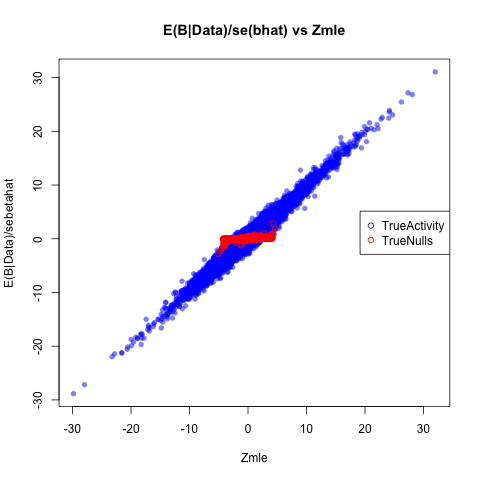
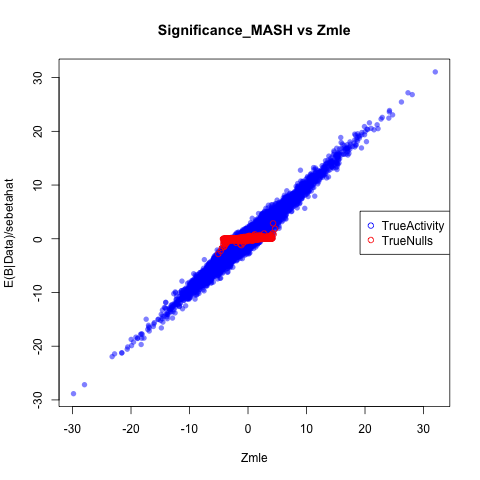
updated
Former-commit-id: 41347c7d1dfbb4c470f985ee4922c5c2e44cd173
Former-commit-id: e0957b2e75d70ba37c8448d6de1a697af7491def

Changed region(s): [[0.3125, 0.0312, 0.75, 0.0938]]

diff --git a/Paper/Results/Results.tex b/Paper/Results/Results.tex
@@ -74,28 +74,29 @@ HI_{TS}& 39.98& 40.77&39.51\\
 
 \subsubsection{Adaptive Shrinkage: The Multivariate Approach}
 
-To demonstrate the utility of shrinking effect size estimates jointly, we consider the estimated effect sizes against their observed input summary statistics using our joint (MASH) and comparing to a univariate shrinkage method (Ash). On simulated data, we can also then plot the estimated effect sizes against the true values,  again comparing among methods. Here, we show the results under the setting of tissue specificity, to analyze the behavior of eQTL of each class.\newline
+To demonstrate the utility of shrinking effect size estimates jointly, we consider the estimated effect sizes against their observed input summary statistics using our joint (MASH) and comparing to a univariate shrinkage method (Ash). On simulated data, we can also then plot the estimated effect sizes against the true values, again comparing among methods. Here, we show the results under the setting of tissue specificity, to analyze the behavior of eQTL of each class.\newline
 
 %\textbf{Figure: Insert Simulations from TSpecific Conditions here}
 \begin{figure}[htbp]
-%\includegraphics[width=5cm]{Figures/scatterplot_fittedtspec.png}&
-%\includegraphics[width=5cm]{Figures/scatterplot_fittedtspec_ash.png}\\
+\includegraphics[width=5cm]{Figures/scatterplot_fittedtspec.png}&
+\includegraphics[width=5cm]{Figures/scatterplot_fittedtspec_ash.png}\\
 %\hfill
 %%\includegraphics[width=5cm]{Figures/scatterplot_truthtspec.png}&
 %%\includegraphics[width=5cm]{Figures/scatterplot_TRUTHashtspec.png}
-\includegraphics[width=5cm]{Figures/scatterplotfittedbspec.png}&
-\includegraphics[width=5cm]{Figures/scatterplotfitted_bspec_ash.png}\\
-\hfill
+%\includegraphics[width=5cm]{Figures/scatterplotfittedbspec.png}&
+%\includegraphics[width=5cm]{Figures/scatterplotfitted_bspec_ash.png}\\
+%\hfill
 \includegraphics[width=5cm]{Figures/scatterplot_truthbspec.png}&
 \includegraphics[width=5cm]{Figures/scatterplot_TRUTHashbspec.png}
-\caption{\textbf{Understanding Power and Accuracy Gains} In the top left panel, we contrast the power advantage of a joint shrinkage approach with that of a univariate thresholding approach, in which all observed statistics of a given size are shrunk equivalently, independent of the information contained in other tissues. Using the information contained in other tissues allows us to augment (or shrink less harshly) small effects in one tissue in the presence of larger tissues, while univariate methods ignore alternative tissues. Thus the method is dually `adaptive' by considering the abundance of both effect sizes (here, an abundance of small effects) and shapes in the overall data-set. $\textbf{Bottom left} the correlation with the true (simulated) effect sizes values is greater using MASH then univariate methods, and truly null values are shrunk more harshly, while retaining the ability to capture tissue-specific eQTL.}
+\caption{\textbf{Understanding Power and Accuracy Gains} In the top left panel, we contrast the power advantage of a joint shrinkage approach with that of a univariate thresholding approach, in which all observed statistics of a given level of significance shrunk equivalently, independent of the information contained in other tissues. Using the information contained in other tissues allows us to augment (or shrink less harshly) small effects in one tissue in the presence of evidence of strong effects in other tissues, while univariate methods ignore alternative tissues. Thus the method is dually `adaptive' by considering the abundance of both effect sizes (here, an abundance of small effects) and shapes in the overall data-set. $\textbf{Bottom left}$ the correlation with the true (simulated) effect sizes values is greater using MASH then univariate methods, and truly null values are shrunk more harshly, while retaining the ability to capture tissue-specific eQTL.}
  \label{fig:simulationscatter}
 \end{figure}\newline
 
-In both MASH and univariate methods, $\hat{b}_{jr}$ values with large standard errors will be shrunk more harshly (Ash Paper, Stephens $\emph{et al}$). However, under the `EZ' model used here, the standard errors are uniformly one. Thus plotting estimated Z statistics (i.e., $E(Z_{jr}|Data$)) against the observed `raw' input values (i.e., $\hat{Z}_{jr})$ (Figure \ref{fig:simulationscatter}) allows us to understand the behavior of multivariate versus univariate methods once the standard error has been considered. 
-However under the simulation framework here, where the standard errors are roughly uniform across tissues, plotting estimated efect sizes (i.e., $E(b_{jr}|Data$)) against the observed `raw' input values (i.e., $\hat{b}_{jr})$ (Figure \ref{fig:simulationscatter}) allows us to understand the behavior of multivariate versus univariate methods once the standard error has been considered. 
-
-In this simulated data-set, where there is an abundance of small effects, both univariate and multivariate methods tend to shrink small observed values of $\hat{\beta}$ towards prior mean at $\bm{0}$ as their likelihoods will be maximized by component with small $\omega$. Critically, considering observed $\bm{\hat{\beta}}$ of the same size, MASH does not shrink all small values to the same extent, due to the power of joint analysis to consider the effects across tissues in inferring the final vector of effect sizes. Thus the method is dually `adaptive' by considering the abundance of both effect sizes and shapes in the overall data-set.  Here, acknowledging consistency, small effects in one tissue will be augmented in the presence of larger effects  other tissues, resulting in dramatic power increases (Figure \ref{fig:powervaccuracy}).
+In both MASH and univariate methods, $\hat{b}_{jr}$ of a given size will be shrunk more harshly depending on their errors (Ash Paper, Stephens $\emph{et al}$). 
+%However, under the `EZ' model used here, the standard errors are uniformly one, and thus effects are shrunk according to the ratio between their observed effect $\hat{b}_{jr}$  and their standard error $\hat{s}_{jr}$. 
+However, plotting the estimated significance (i.e., $\frac{E(B|Data)}{\hat{s}_{j}}$) against the observed Z score (i.e., $\hat{Z}_{jr})$ (Figure \ref{fig:simulationscatter}) allows us to understand the behavior of multivariate versus univariate methods once the standard error has been considered. 
+%However under the simulation framework here, where the standard errors are roughly uniform across tissues, plotting estimated efect sizes (i.e., $E(b_{jr}|Data$)) against the observed `raw' input values (i.e., $\hat{b}_{jr})$ (Figure \ref{fig:simulationscatter}) allows us to understand the behavior of multivariate versus univariate methods once the standard error has been considered. 
+In this simulated data-set, where there is an abundance of small effects, both univariate and multivariate methods tend to shrink small observed values of $\hat{\bm{b}}$ towards prior mean at $\bm{0}$ as their likelihoods will be maximized by component with small $\omega$. However, while univariate methods shrink all observed Z statistics uniformly, thus preserving the rank-order of significance among $\hat{\bm{b_{j}}}$, MASH does not. Critically, this is due to the power of joint analysis to consider the effects across tissues in inferring the final vector of effect sizes.Thus the method is dually `adaptive' by considering the abundance of both effect sizes and shapes in the overall data-set.  Here, acknowledging consistency, small effects in one tissue will be augmented in the presence of larger effects in other tissues, resulting in dramatic power increases (Figure \ref{fig:powervaccuracy}).
 
 Furthermore, when we plot the estimated effects $E(\beta_{jr}|Data)$ against true effect size $\beta_{jr}$ (Figure \ref{fig:simulationscatter}, $\textbf{bottom}$) and segregate these effects by class  (e.g., active and shared, active and tissue-specific, or null), we see that the correlation among the true and estimated effect $E(\beta|D)$ sizes is much tighter using our multivariate approach. Similarly, truly null effects are shrunk more tightly, due to the fact that in the presence of consistency, small effects across subgroups will lead us to have a high prior belief that an additional small observed effect in that eQTL is also likely to be close to 0. Importantly, tissue-specific QTLs are still captured using our joint approach, demonstrating that if tissue-specific patterns exist in the data, our prior belief will capture this phenomenon and accordingly our posterior estimates will reflect the underlying tissue-specific nature at a given tissue-specific SNP.
 
